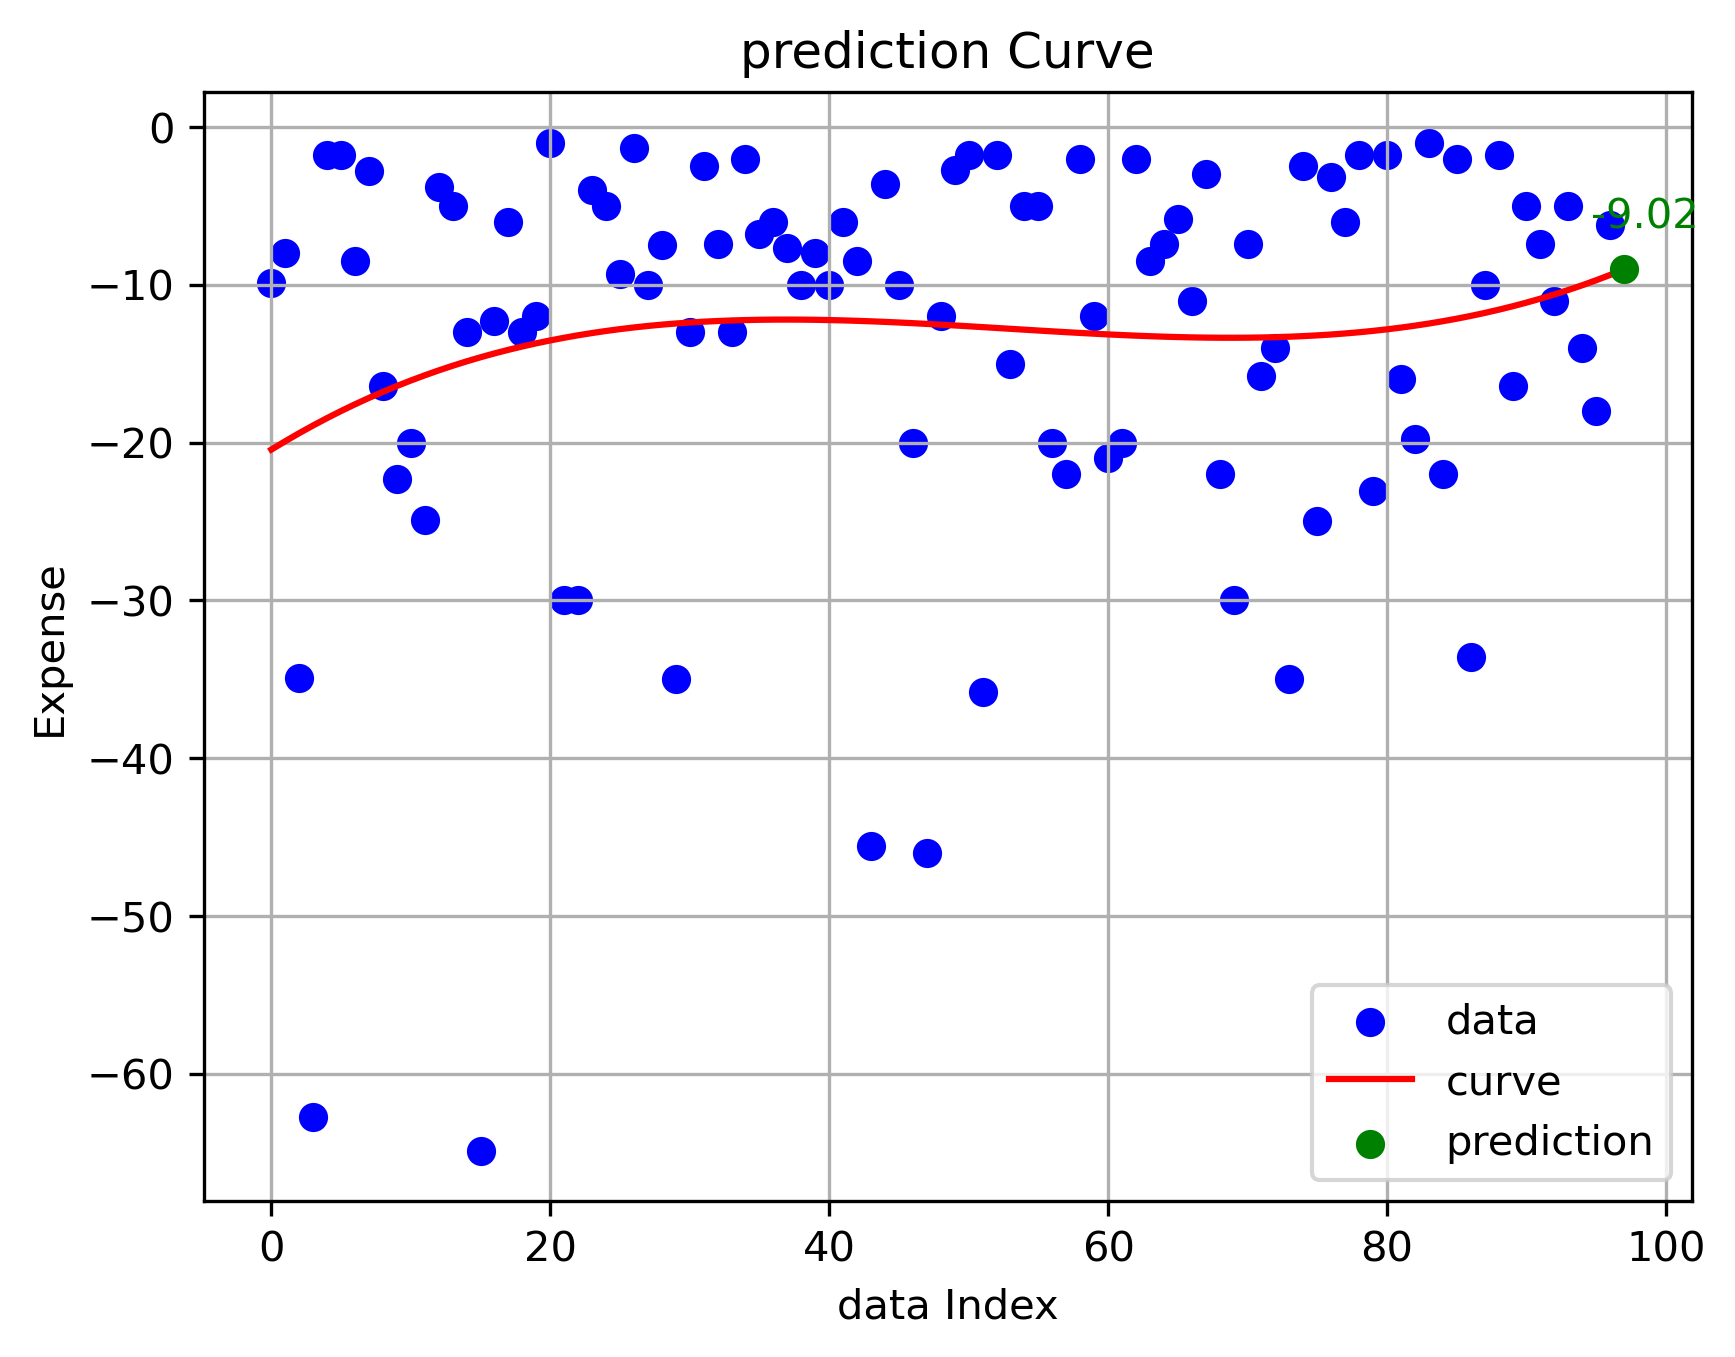
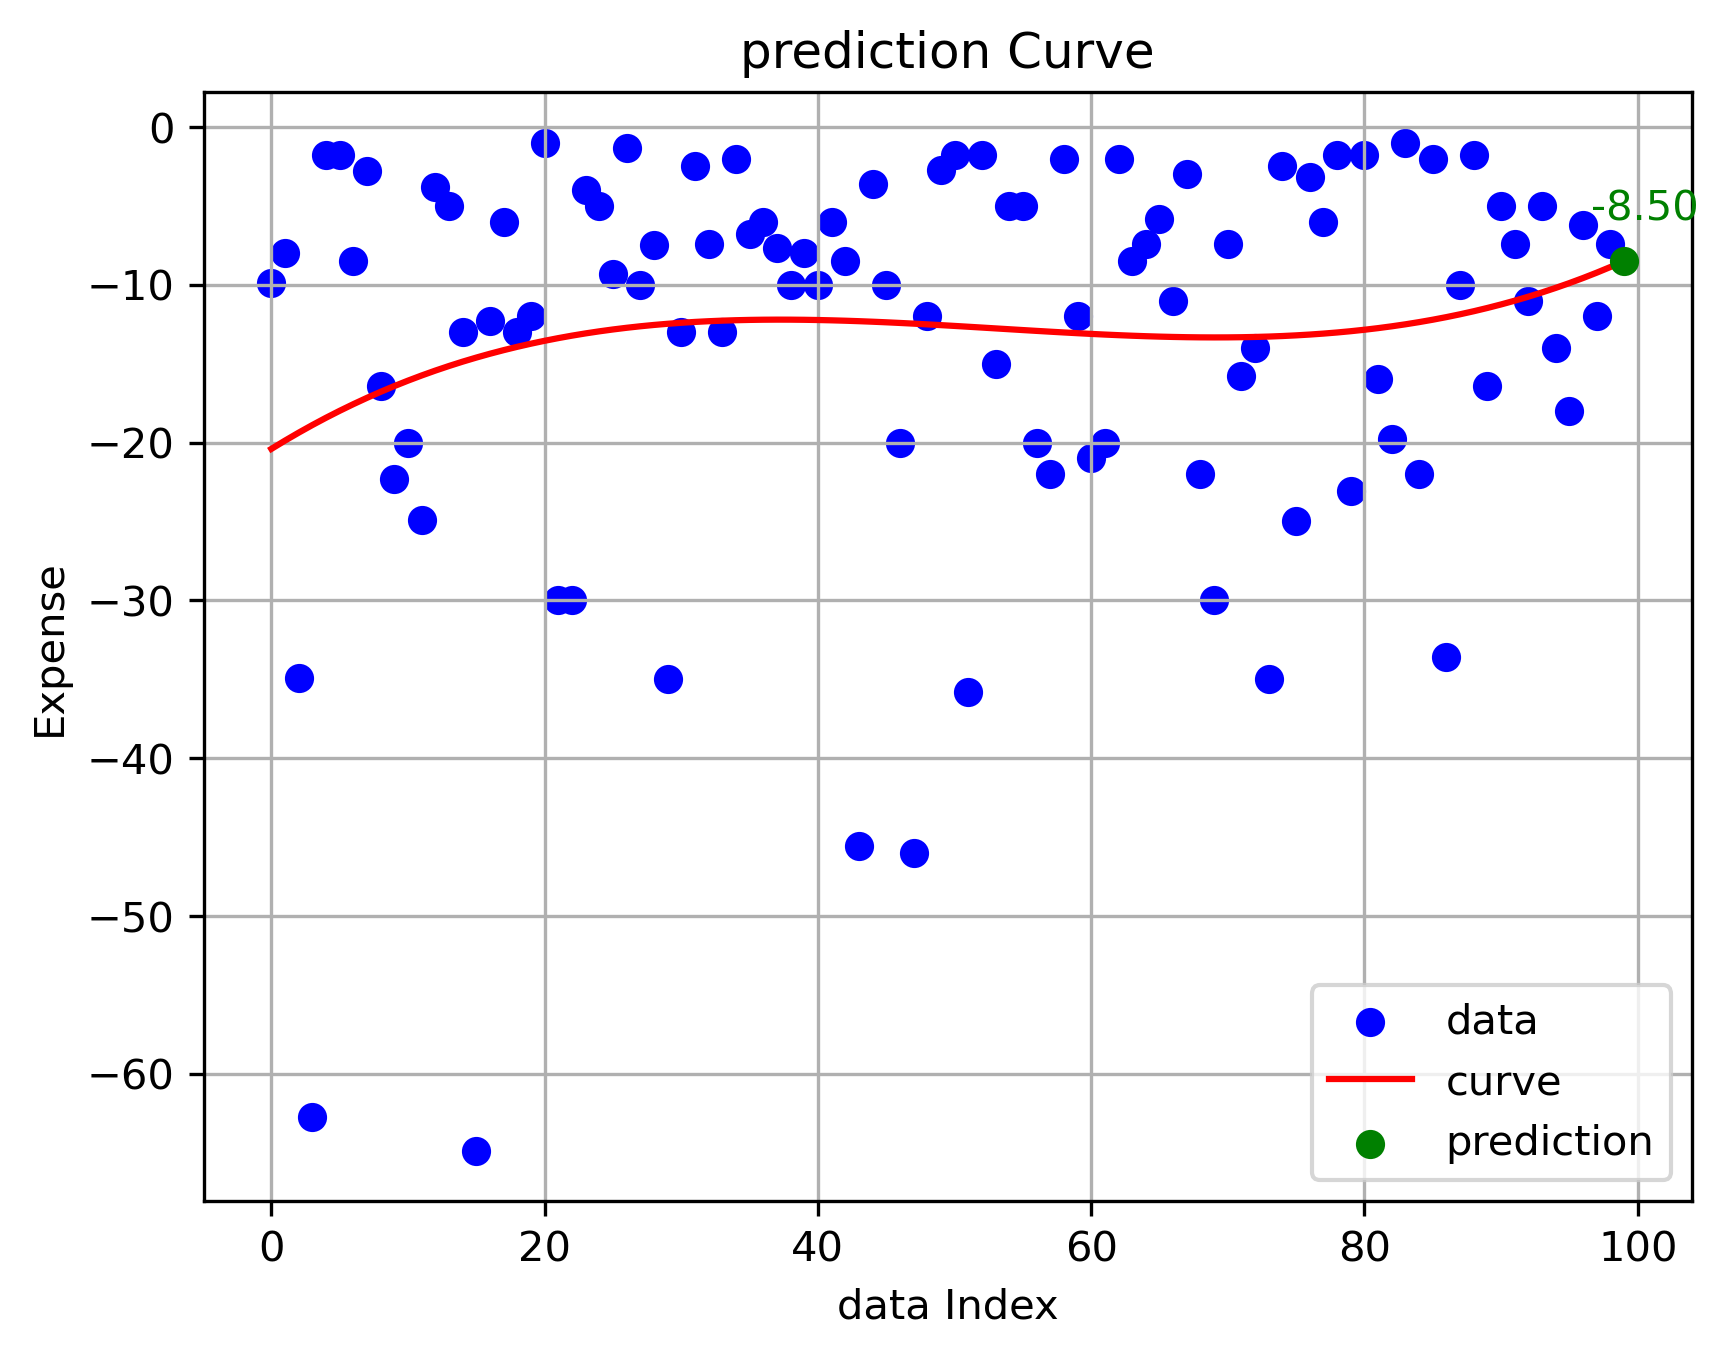
data update 11.20

diff --git a/ExpenseAnalysis/model_predictions.md b/ExpenseAnalysis/model_predictions.md
@@ -4,12 +4,12 @@
 ## 预测值列表
 | 序号 | 预测值 |
 | -------- | ----------------------- |
-| 1    | -9.02130              |
-| 2    | -9.50847              |
-| 3    | -8.91600              |
-| 4    | -9.89785              |
+| 1    | -8.49780              |
+| 2    | -9.32624              |
+| 3    | -7.44200              |
+| 4    | -9.09192              |
     
 ## 统计分析
-- **均值**: -9.34
-- **总体方差**: 0.16
-- **样本方差**: 0.21
+- **均值**: -8.59
+- **总体方差**: 0.53
+- **样本方差**: 0.71

diff --git a/Avg&Var/result.md b/Avg&Var/result.md
@@ -2,8 +2,8 @@
 
 ## 金额（可执行）数据分析
 
-- 平均值: -64.3805
-- 方差: 1812.7366471052633
+- 平均值: -62.181428571428576
+- 方差: 1823.654032857143
 
 ## 日期出现次数统计
 
